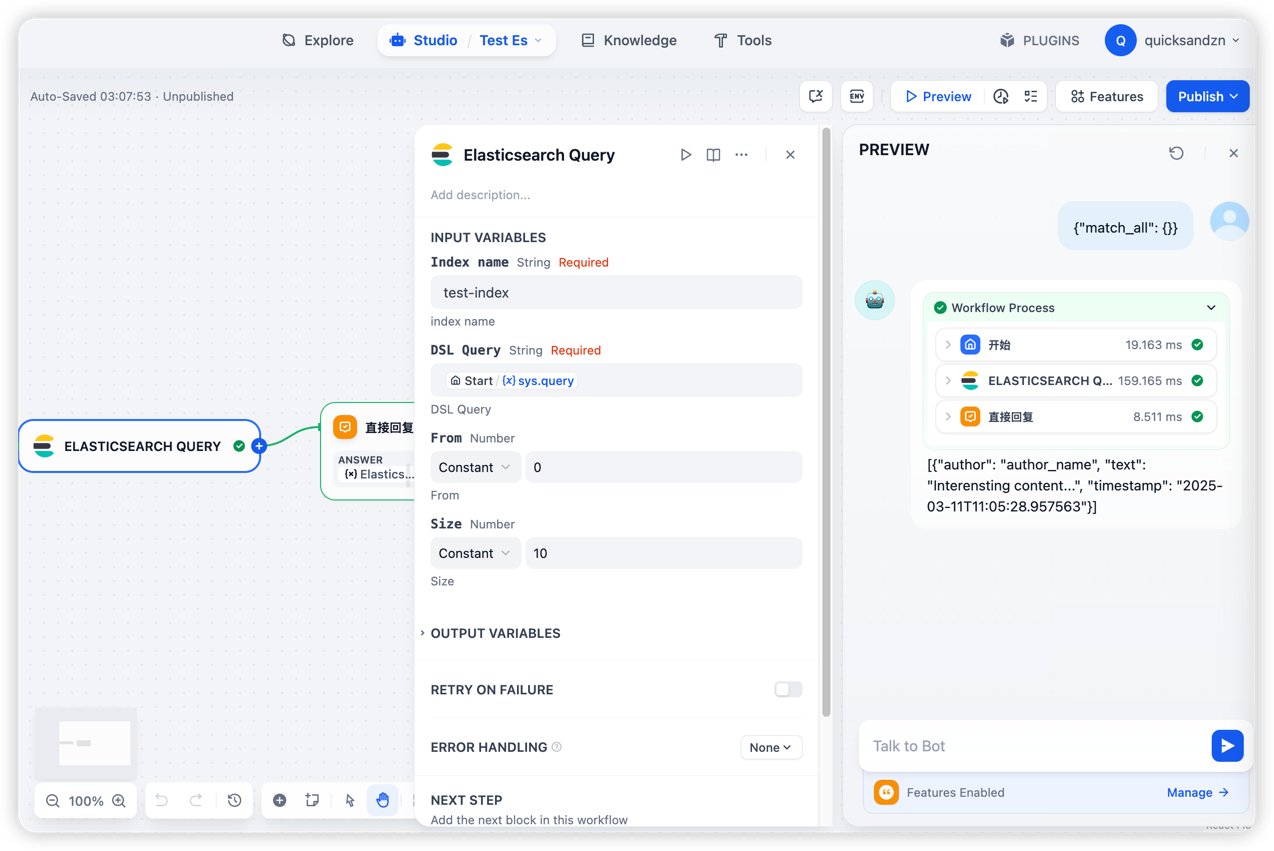
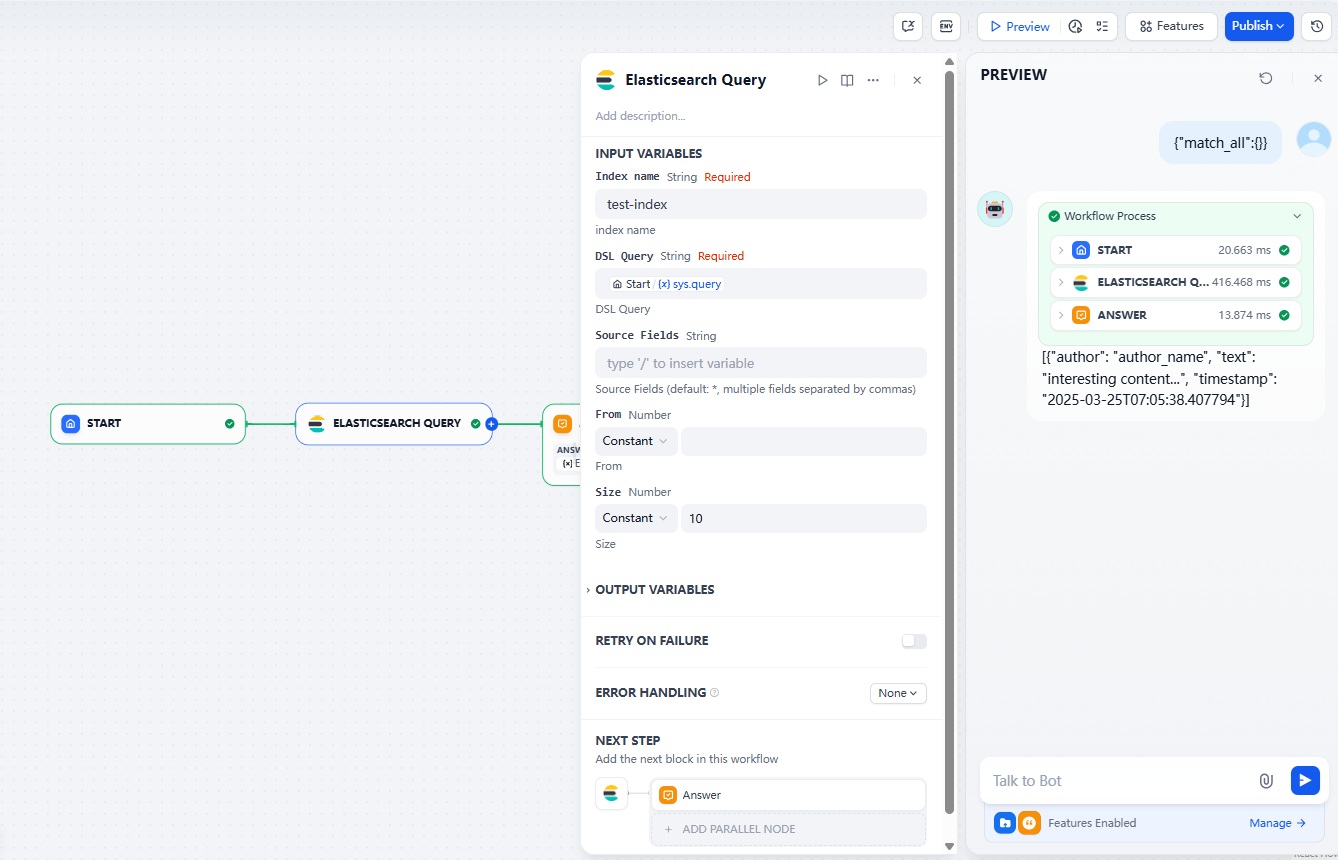
feat(query): add source field support for ES queries

diff --git a/tools/query.py b/tools/query.py
@@ -13,8 +13,9 @@ class ElasticsearchQueryTool(Tool, ElasticsearchBaseTool):
         query = tool_parameters.get("query")
         from_ = tool_parameters.get("from", 0)
         size = tool_parameters.get("size", 10)
+        source_includes = tool_parameters.get("source_includes", "*")
         resp = client.search(
-            index=index, query=json.loads(query), from_=from_, size=size
+            index=index, query=json.loads(query), from_=from_, size=size, source_includes=source_includes
         )
         result = []
         for hit in resp["hits"]["hits"]:
